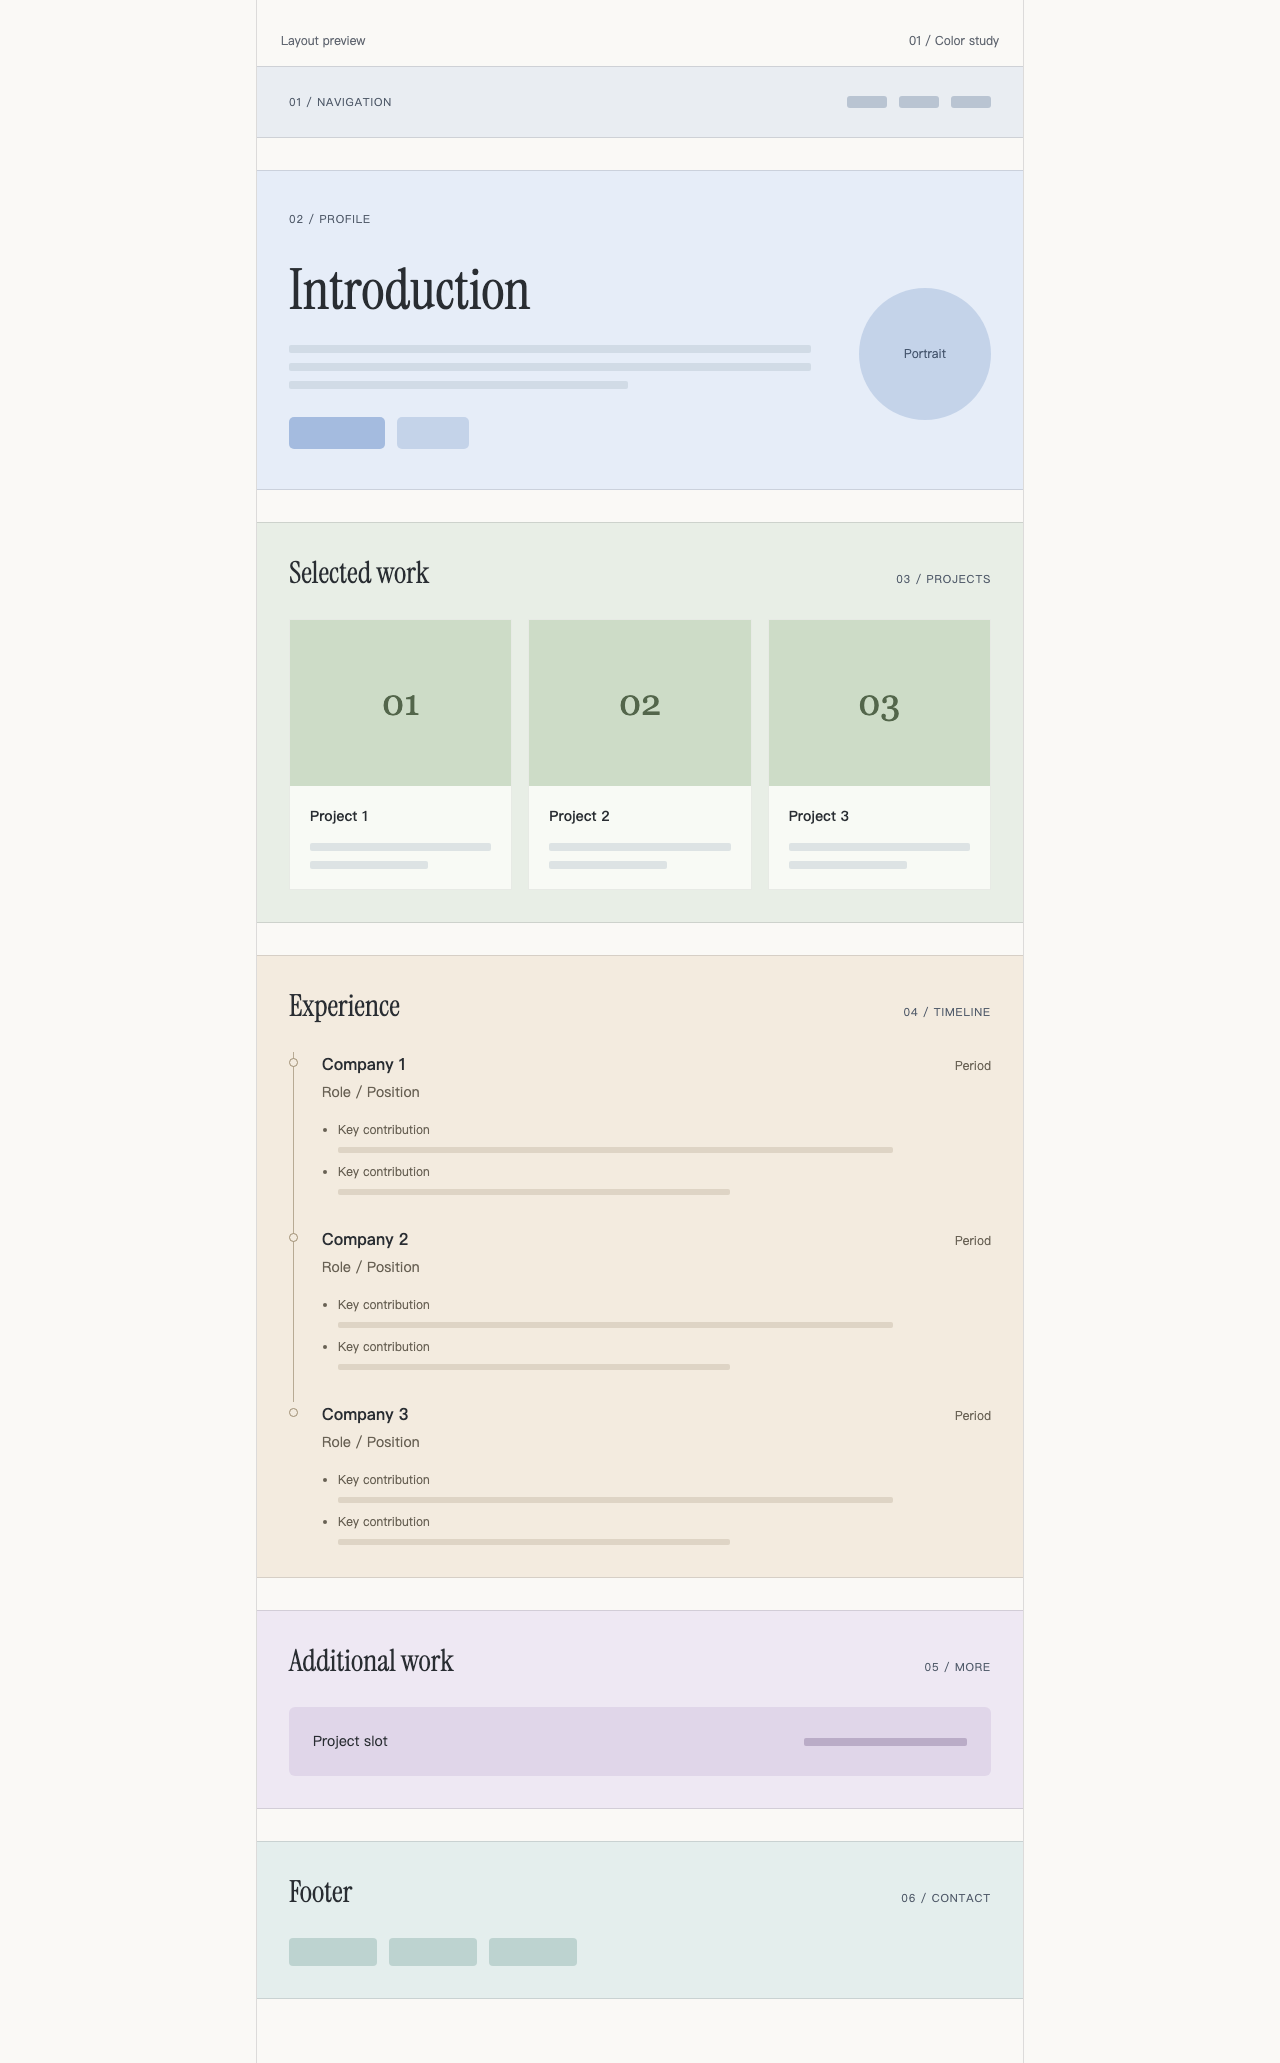
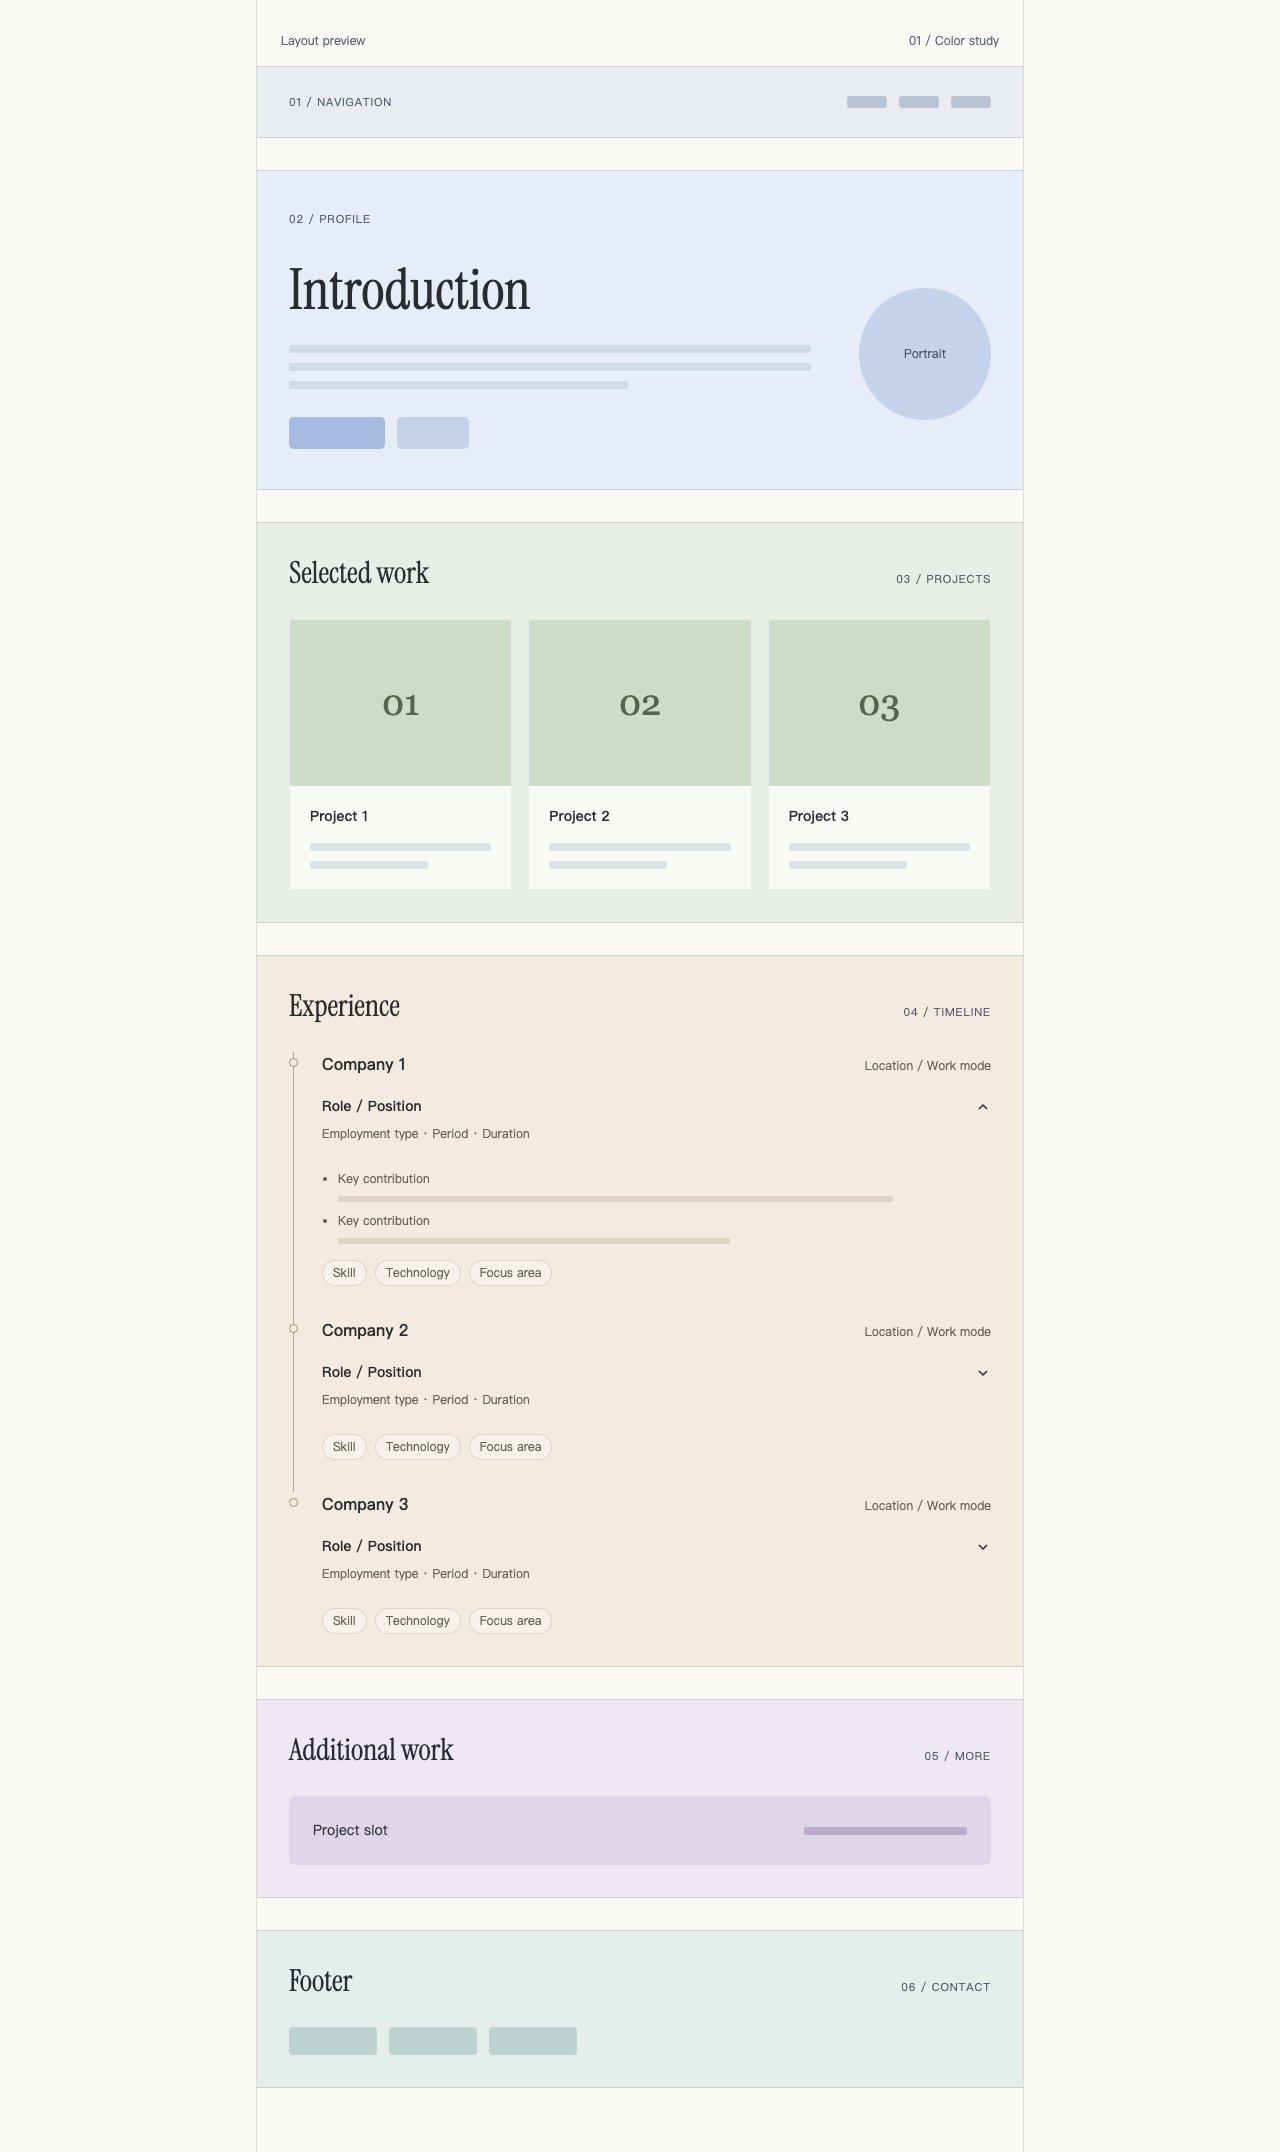
feat: allow experience contributions to expand and collapse

diff --git a/tests/home.test.ts b/tests/home.test.ts
@@ -31,3 +31,40 @@ test("homepage presents the six layout regions in reading order without overflow
   );
   await page.screenshot({ path: testInfo.outputPath("homepage.png"), fullPage: true });
 });
+
+test("experience contributions toggle independently by pointer and keyboard", async ({
+  page,
+}, testInfo) => {
+  await page.goto("/");
+  const first = page.getByLabel("Role / Position — Company 1", { exact: true });
+  const second = page.getByLabel("Role / Position — Company 2", { exact: true });
+  const firstContributions = page.getByRole("list", {
+    name: "Company 1 contributions",
+    exact: true,
+  });
+  const secondContributions = page.getByRole("list", {
+    name: "Company 2 contributions",
+    exact: true,
+  });
+  await expect(firstContributions).toBeVisible();
+  await expect(secondContributions).toBeHidden();
+  await first.click();
+  await expect(firstContributions).toBeHidden();
+  await expect(page.getByRole("list", { name: "Company 1 tags", exact: true })).toBeVisible();
+  await second.click();
+  await expect(secondContributions).toBeVisible();
+  await expect(firstContributions).toBeHidden();
+  await second.press("Enter");
+  await expect(secondContributions).toBeHidden();
+  await second.press("Space");
+  await expect(secondContributions).toBeVisible();
+  await first.click();
+  await expect(firstContributions).toBeVisible();
+  await expect(secondContributions).toBeVisible();
+  expect(await page.evaluate(() => document.documentElement.scrollWidth <= window.innerWidth)).toBe(
+    true,
+  );
+  await page
+    .getByRole("region", { name: "Experience", exact: true })
+    .screenshot({ path: testInfo.outputPath("experience-expanded.png") });
+});

diff --git a/src/styles/global.css b/src/styles/global.css
@@ -205,9 +205,59 @@ article {
   font-size: 12px;
   color: #686154;
 }
-.experience-role {
-  margin-top: 6px;
+.experience-details {
+  margin-top: 12px;
+}
+.experience-details summary {
+  list-style: none;
+  cursor: pointer;
+  min-height: 44px;
+  padding-block: 8px;
+  border-radius: 4px;
+}
+.experience-details summary::-webkit-details-marker {
+  display: none;
+}
+.experience-details summary:hover {
+  background: #292d3208;
+}
+.experience-details summary:focus-visible {
+  outline: 2px solid #3b64a2;
+  outline-offset: 4px;
+}
+.role-heading {
+  display: flex;
+  align-items: center;
+  justify-content: space-between;
+  gap: 16px;
+  margin-bottom: 6px;
+  font-weight: 500;
+}
+.disclosure-icon {
+  width: 16px;
+  height: 16px;
+  flex-shrink: 0;
+  stroke: currentColor;
+  stroke-width: 1.5;
+}
+.experience-details[open] .disclosure-icon {
+  transform: rotate(180deg);
+}
+.experience-tags {
+  display: flex;
+  flex-wrap: wrap;
+  gap: 8px;
+  list-style: none;
+  padding: 0;
+  margin-top: 16px;
+}
+.experience-tags li {
+  border: 1px solid #b7aa9466;
+  border-radius: 999px;
+  padding: 3px 10px;
+  font-size: 12px;
   color: #686154;
+  background: #faf9f680;
 }
 .contributions {
   display: grid;

diff --git a/docs/layout-review.md b/docs/layout-review.md
@@ -12,17 +12,20 @@ Keep the issue open and do not begin the next content ticket until approval is r
 - Six distinguishable, softly colored regions: navigation, introduction,
   selected work, experience, additional work, and footer.
 - A generous introduction followed immediately by three equally weighted project
-  slots. Three expanded timeline entries and one additional-work slot follow.
-  Each entry reserves space for company, period, role, and two key contributions;
-  markers and a vertical rule connect the entries. On phones the period stacks
-  below the company. No disclosure interaction is needed.
+  slots. Three independently collapsible timeline entries and one additional-work slot follow.
+  Each entry keeps company, location, role, employment period, and skill tags
+  visible. Clicking the role row reveals two contribution placeholders. The first
+  entry starts open; the others start closed. Native details/summary supports
+  pointer, Enter, and Space without JavaScript. Markers and a vertical rule
+  connect the entries; the heading stacks on phones.
 - At 640px and below, project cards stack, the portrait moves above the
   introduction, and outer gutters reduce to 16px with 24px section gaps.
 - Warm white background, charcoal labels, subtle borders, and restrained blue
   emphasis. Color fills describe regions for review, not final project artwork.
 - Labels and decorative bars only: no biography, project claims, resume details,
   real portrait, final imagery, working contact controls, or localized content.
-  Decorative slots are excluded from the accessibility tree and keyboard order.
+  Decorative bars are excluded from the accessibility tree. Disclosure summaries
+  are keyboard reachable and have visible focus outlines.
 - Font stacks name the agreed Instrument Serif / Geist faces and Chinese
   fallbacks; this structural preview does not bundle fonts. Final typography,
   real content wrapping, localization, and motion need later validation.
@@ -71,18 +74,26 @@ navigation region did not exist. After implementation, both tests passed.
 
 - `pnpm exec vp run lint`: passed.
 - `pnpm exec vp run typecheck`: zero errors, warnings, or hints.
-- `pnpm exec vp run test`: full suite passed, 2/2; includes production build.
+- `pnpm exec vp run test`: full suite passed, 4/4; includes production build.
 - Browser assertions: HTTP 200, six visible regions in reading order, disjoint
   region bounds, horizontal containment, and three project slots.
 - Screenshots are generated by the test in `test-results/`; the reviewed copies
   above are committed so the PR can be reviewed without a local server.
+- Disclosure regression: default states, independent opening/closing, tags
+  remaining visible when collapsed, pointer, Enter, and Space on desktop/mobile.
+- [Expanded desktop Experience](layout-evidence/experience-desktop.png) and
+  [expanded mobile Experience](layout-evidence/experience-mobile.png) show two
+  entries open at once after interaction.
 
 ## Approval record
 
 Revision requested by Caven: introduce a line-based treatment and reconsider the
 960px column. The revised preview caps the column at 768px and adds continuous
 side rules and horizontal section dividers. Caven also requested an expanded Experience placeholder preview with company,
-period, role, and two contributions per entry. These requests are not final approval.
+period, role, and two contributions per entry, then requested independent
+expand/collapse behavior matching the supplied reference screenshots. The latest
+revision keeps summary information and tags visible while toggling contributions.
+These requests are not final approval.
 
 Pending. Review the relative width, section spacing, introduction height,
 project-card proportions, and mobile reading order. Record Caven's decision
